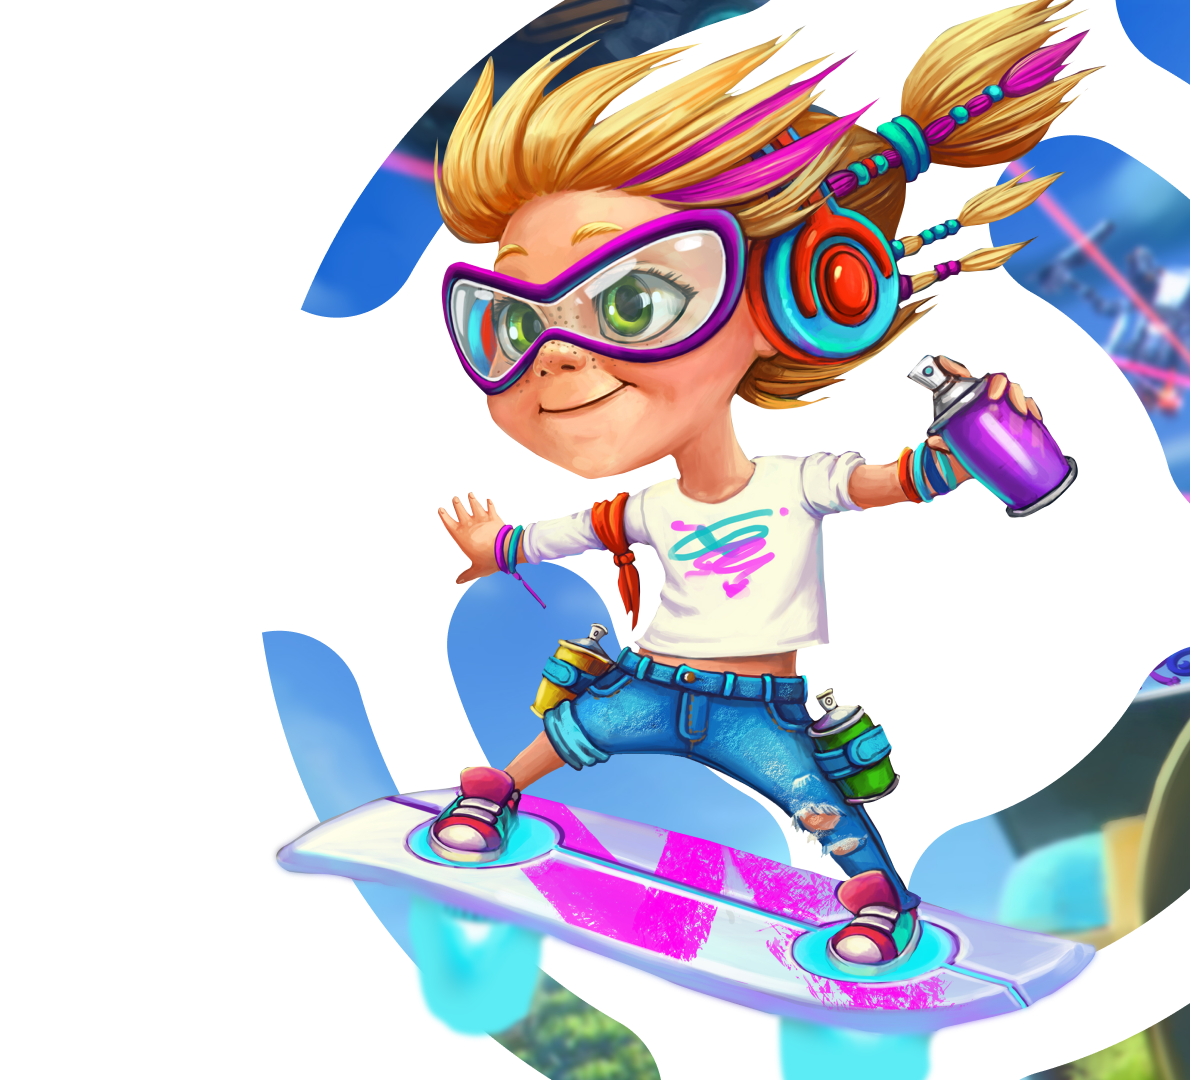
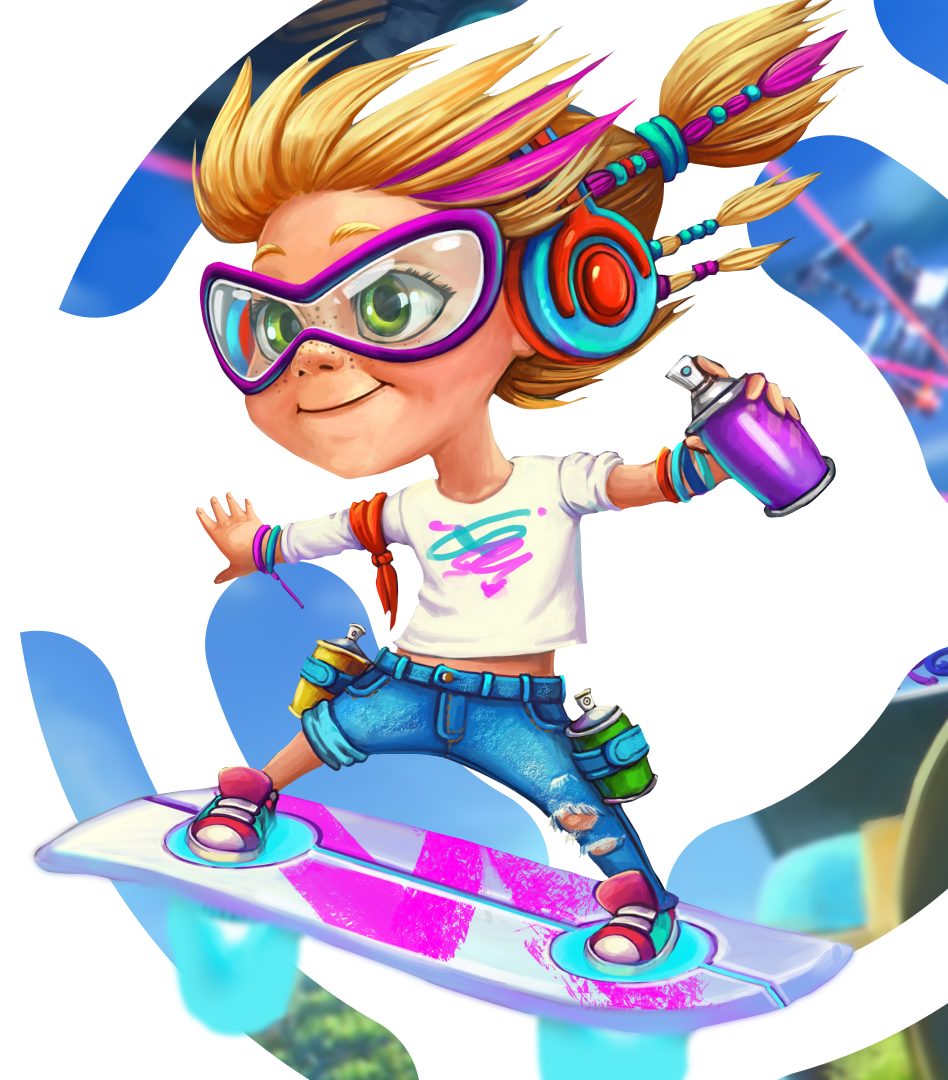
Fix bugs on Safari 13 and over

diff --git a/css/main.css b/css/main.css
@@ -1005,9 +1005,16 @@ img {
 .section-img {
   height: 100%;
   position: absolute;
+  -webkit-box-pack: end;
+      -ms-flex-pack: end;
+          justify-content: flex-end;
   top: 0;
   right: 0;
   z-index: 3;
+}
+
+.section-img img {
+  height: 100%;
 }
 
 .section {
@@ -1047,7 +1054,7 @@ img {
   left: 0;
   background-repeat: no-repeat;
   background-size: cover;
-  z-index: 2;
+  z-index: 0;
 }
 
 .section-top {
@@ -1603,7 +1610,7 @@ img {
 .slide-controllers {
   position: absolute;
   left: 120px;
-  bottom: 330px;
+  top: 51vh;
   z-index: 10;
   max-width: 230px;
 }
@@ -1630,7 +1637,6 @@ img {
     left: 50px;
     bottom: unset;
     z-index: 10;
-    top: 361px;
   }
   .heroes-slider {
     width: calc(100vw - 100px);
@@ -1638,8 +1644,10 @@ img {
   .heroes__item {
     max-width: calc(100vw - 100px);
   }
+  .heroes__item:nth-child(1) .section-img {
+    right: -150px !important;
+  }
   .heroes__item .section-content {
-    max-width: 950px;
     margin-left: 50px !important;
     margin-top: 25vh;
   }
@@ -1665,8 +1673,18 @@ img {
     color: #fff;
   }
   .heroes__item .section-content .bottom-content {
-    width: 40%;
+    width: 50%;
     margin: 0 auto;
+  }
+}
+
+@media (max-width: 1280px) {
+  .heroes__item .section-content h3 {
+    font-size: 30px;
+  }
+  .heroes__item .section-content h2 {
+    font-size: 90px;
+    margin-bottom: 20px;
   }
 }
 
@@ -1687,7 +1705,7 @@ img {
 
 @media (max-width: 1366px) {
   #about .section-content {
-    max-width: 55%;
+    max-width: 45%;
   }
 }
 
@@ -1702,6 +1720,7 @@ img {
 
 #team .section-content {
   max-width: 350px;
+  margin-top: 100px;
 }
 
 #team .play-btn {

diff --git a/scss/blocks/_slider.scss b/scss/blocks/_slider.scss
@@ -123,7 +123,7 @@
 .slide-controllers {
   position: absolute;
   left: 120px;
-  bottom: 330px;
+  top: 51vh;
   z-index: 10;
   max-width: 230px;
   h5 {
@@ -148,7 +148,6 @@
       left: 50px;
       bottom: unset;
       z-index: 10;
-      top: 361px;
     }
   }
   .heroes-slider {
@@ -157,8 +156,13 @@
 
   .heroes__item {
     max-width: calc(100vw - 100px);
+    &:nth-child(1) {
+      .section-img {
+        right: -150px !important;
+      }
+    }
     .section-content {
-      max-width: 950px;
+      // max-width: 65%;
       margin-left: 50px !important;
       margin-top: 25vh;
       .bottom-content {
@@ -183,8 +187,22 @@
         color: #fff;
       }
       .bottom-content {
-        width: 40%;
+        width: 50%;
         margin: 0 auto;
+      }
+    }
+  }
+}
+
+@media (max-width: 1280px) {
+  .heroes__item {
+    .section-content {
+      h3 {
+        font-size: 30px;
+      }
+      h2 {
+        font-size: 90px;
+        margin-bottom: 20px;
       }
     }
   }

diff --git a/js/main.js b/js/main.js
@@ -79,6 +79,13 @@ $(document).ready(function () {
     currentSlide,
     nextSlide
   ) {
+    const topPosition = $(
+      ".heroes__item .section-content .bottom-content"
+    ).offset().top;
+
+    console.log(topPosition);
+
+    $("#heroes .slide-controllers").css("top", topPosition);
     updateSiteBar(nextSlide);
   });
 

diff --git a/scss/blocks/_basics.scss b/scss/blocks/_basics.scss
@@ -205,9 +205,13 @@ img {
 .section-img {
   height: 100%;
   position: absolute;
+  justify-content: flex-end;
   top: 0;
   right: 0;
   z-index: 3;
+  img {
+    height: 100%;
+  }
 }
 
 .section {
@@ -247,7 +251,7 @@ img {
       repeat: no-repeat;
       size: cover;
     }
-    z-index: 2;
+    z-index: 0;
   }
 }
 

diff --git a/scss/blocks/_about.scss b/scss/blocks/_about.scss
@@ -18,7 +18,7 @@
 @media (max-width: 1366px) {
   #about {
     .section-content {
-      max-width: 55%;
+      max-width: 45%;
     }
   }
 }

diff --git a/scss/blocks/_team.scss b/scss/blocks/_team.scss
@@ -11,6 +11,7 @@
   }
   .section-content {
     max-width: 350px;
+    margin-top: 100px;
   }
   .play-btn {
     position: absolute;
